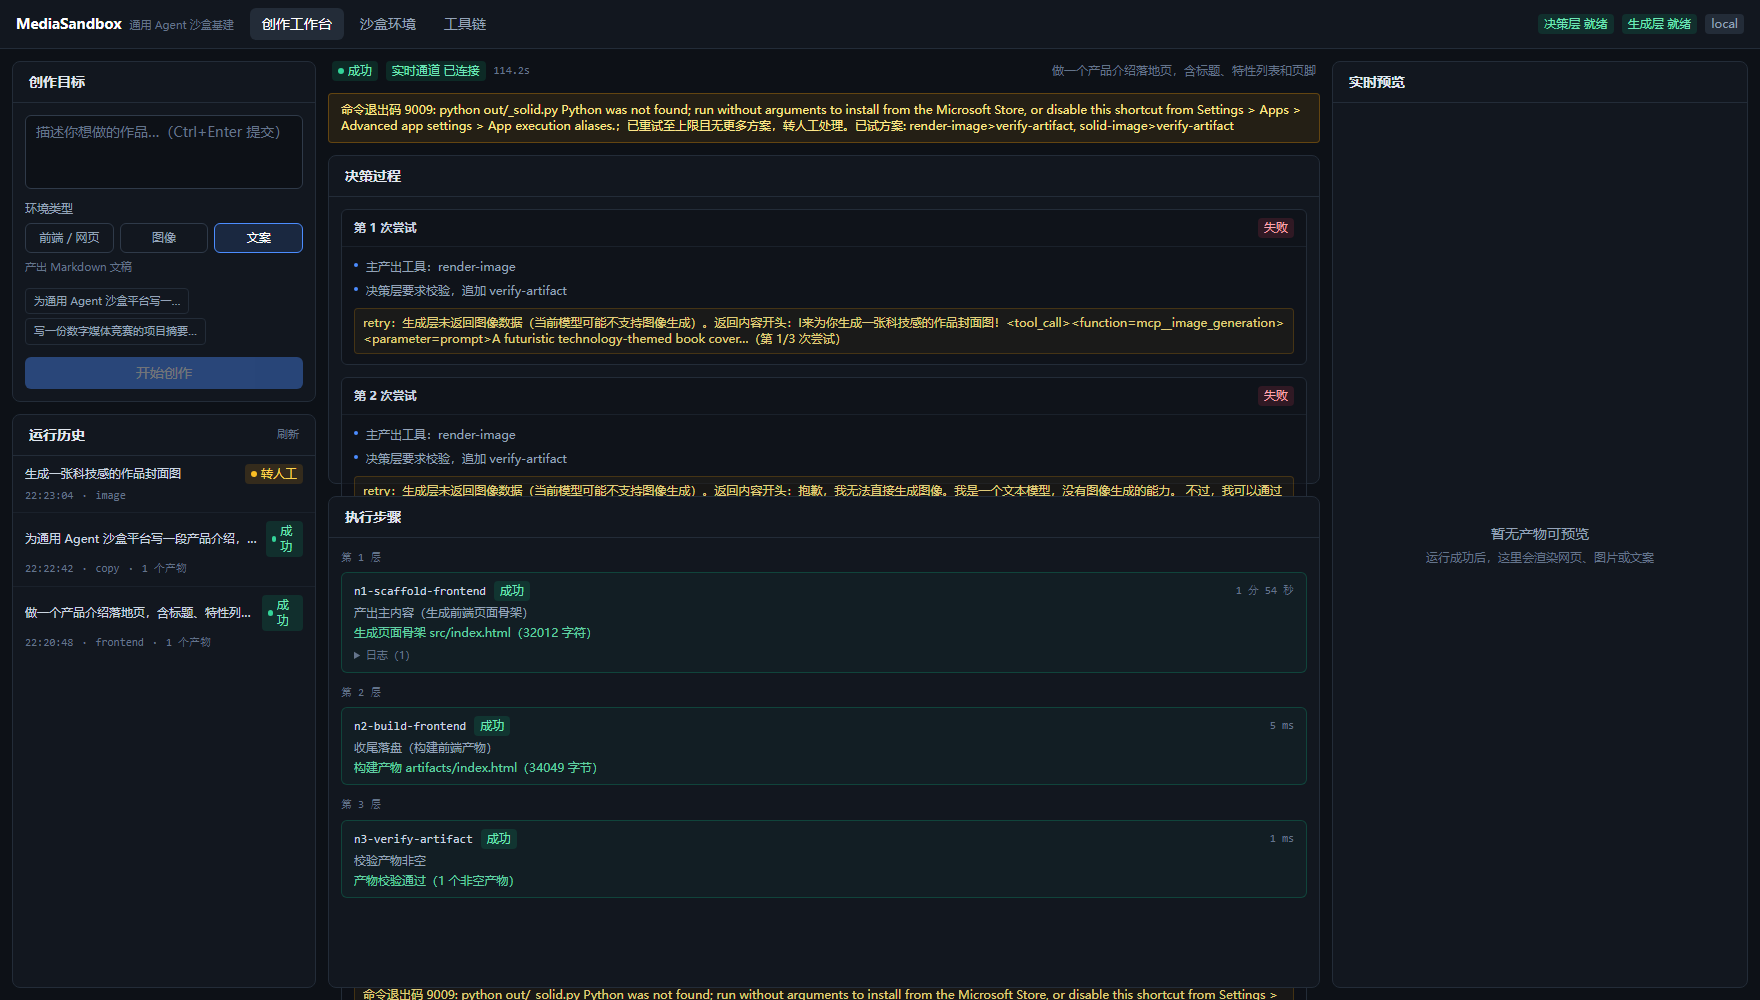
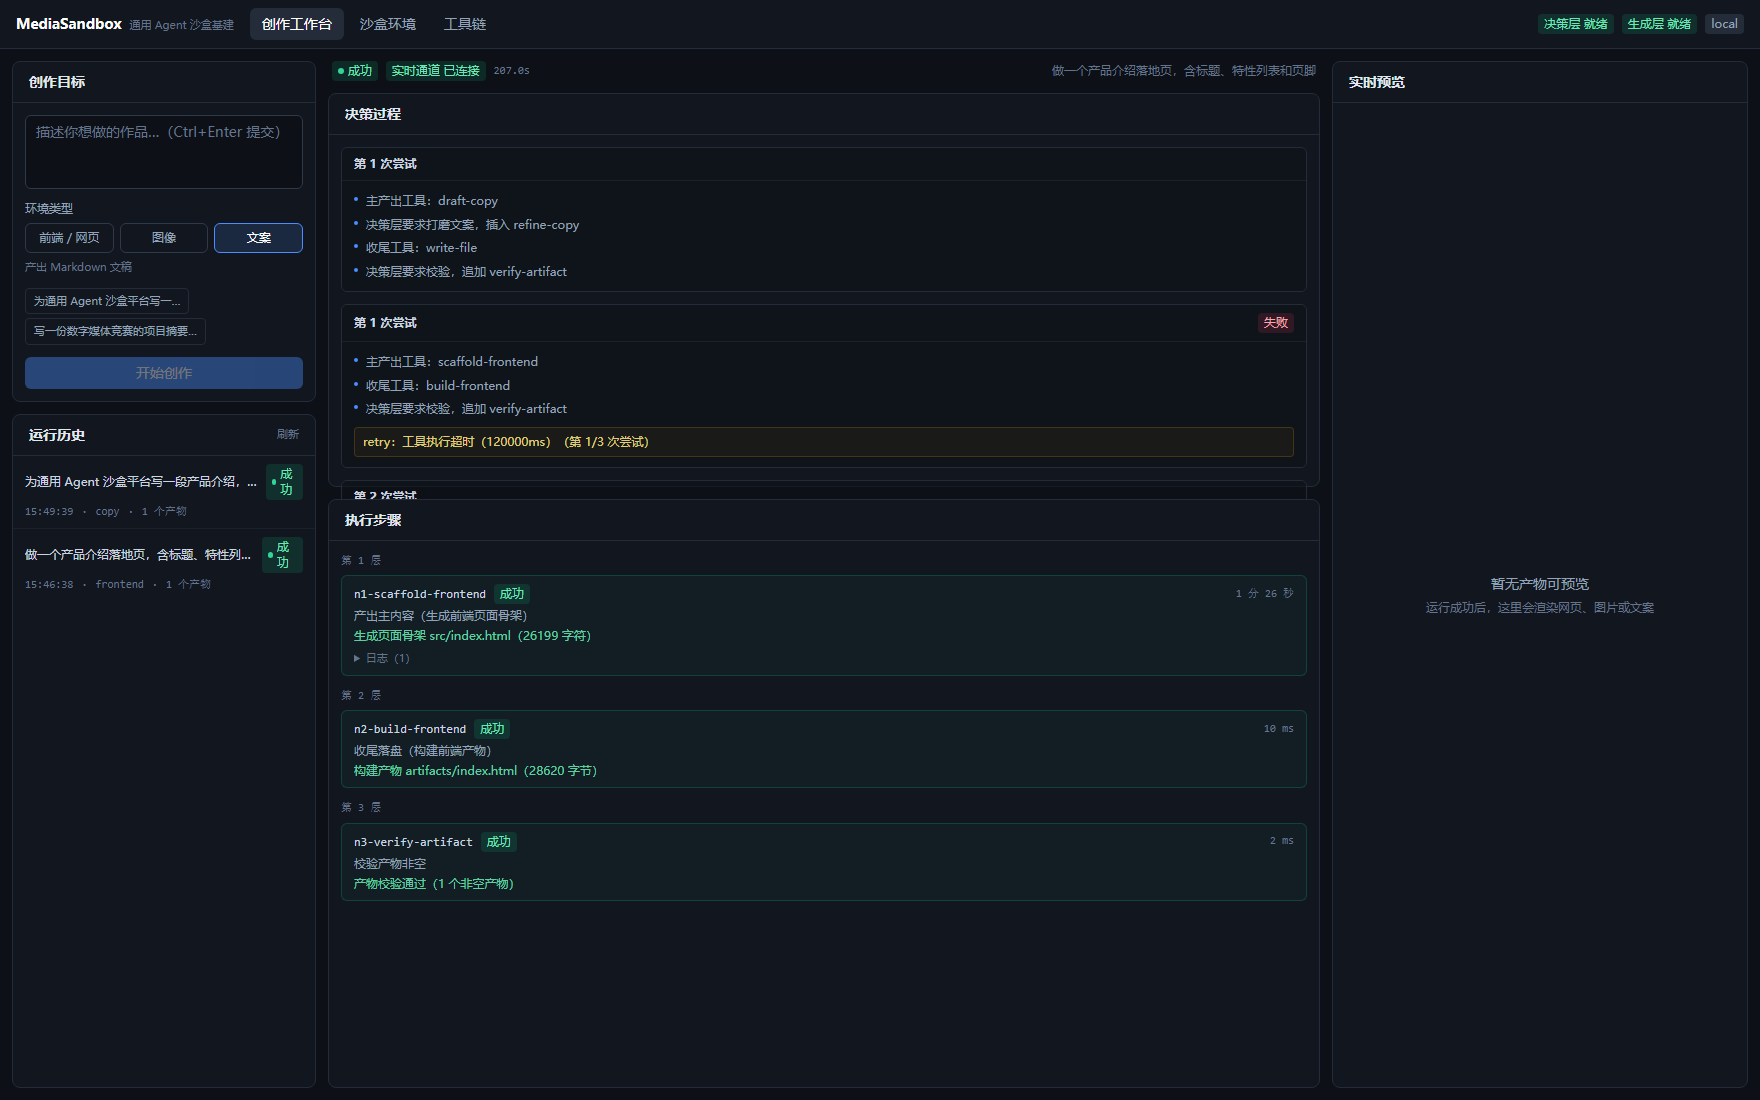
前端加 hash 路由 + 补齐三个页面的界面截图
## hash 路由

标签与 URL hash 双向同步（`#workbench` / `#sandbox` / `#tools`）：
- 每个页面可被直接链接，浏览器前进/后退可用
- 无头截图能按 URL 直达，不必模拟点击

无效 hash 回落工作台。仍然不引入 react-router —— 只有三个平级页面，
没有嵌套路由与深链需求。

## 截图

补齐三个页面，对应赛项要求的"界面截图"：

  01-workbench.png  创作工作台（含决策过程、分层步骤、运行历史）
  02-sandbox.png    沙盒环境（provider 对比、8 项隔离约束、环境预设、运行表）
  03-tools.png      工具链（候选集、两条路线、每个工具的输入输出端口）

全部由 Edge headless 渲染真实页面得到，非示意图。

diff --git a/packages/web/src/App.tsx b/packages/web/src/App.tsx
@@ -20,10 +20,29 @@ const TABS: readonly { id: Tab; label: string; hint: string }[] = [
   { id: 'tools', label: '工具链', hint: '决策层的候选集来自这里' },
 ];
 
+/** 从 URL hash 读初始标签。无效或缺失时回落工作台。 */
+function readTabFromHash(): Tab {
+  const raw = window.location.hash.replace(/^#\/?/, '');
+  return TABS.some((t) => t.id === raw) ? (raw as Tab) : 'workbench';
+}
+
 export function App(): ReactNode {
-  const [tab, setTab] = useState<Tab>('workbench');
+  const [tab, setTab] = useState<Tab>(readTabFromHash);
   const [health, setHealth] = useState<HealthResponse | null>(null);
   const [healthError, setHealthError] = useState<string | null>(null);
+
+  // 标签与 URL hash 双向同步：这样每个页面都可被直接链接
+  // （也用得上浏览器前进/后退，以及无头截图时按 URL 直达）。
+  useEffect(() => {
+    const onHashChange = (): void => setTab(readTabFromHash());
+    window.addEventListener('hashchange', onHashChange);
+    return () => window.removeEventListener('hashchange', onHashChange);
+  }, []);
+
+  const selectTab = (next: Tab): void => {
+    setTab(next);
+    window.location.hash = next;
+  };
 
   useEffect(() => {
     let cancelled = false;
@@ -63,7 +82,7 @@ export function App(): ReactNode {
             <button
               key={t.id}
               type="button"
-              onClick={() => setTab(t.id)}
+              onClick={() => selectTab(t.id)}
               title={t.hint}
               className={`rounded-md px-3 py-1.5 text-sm transition-colors ${
                 tab === t.id
